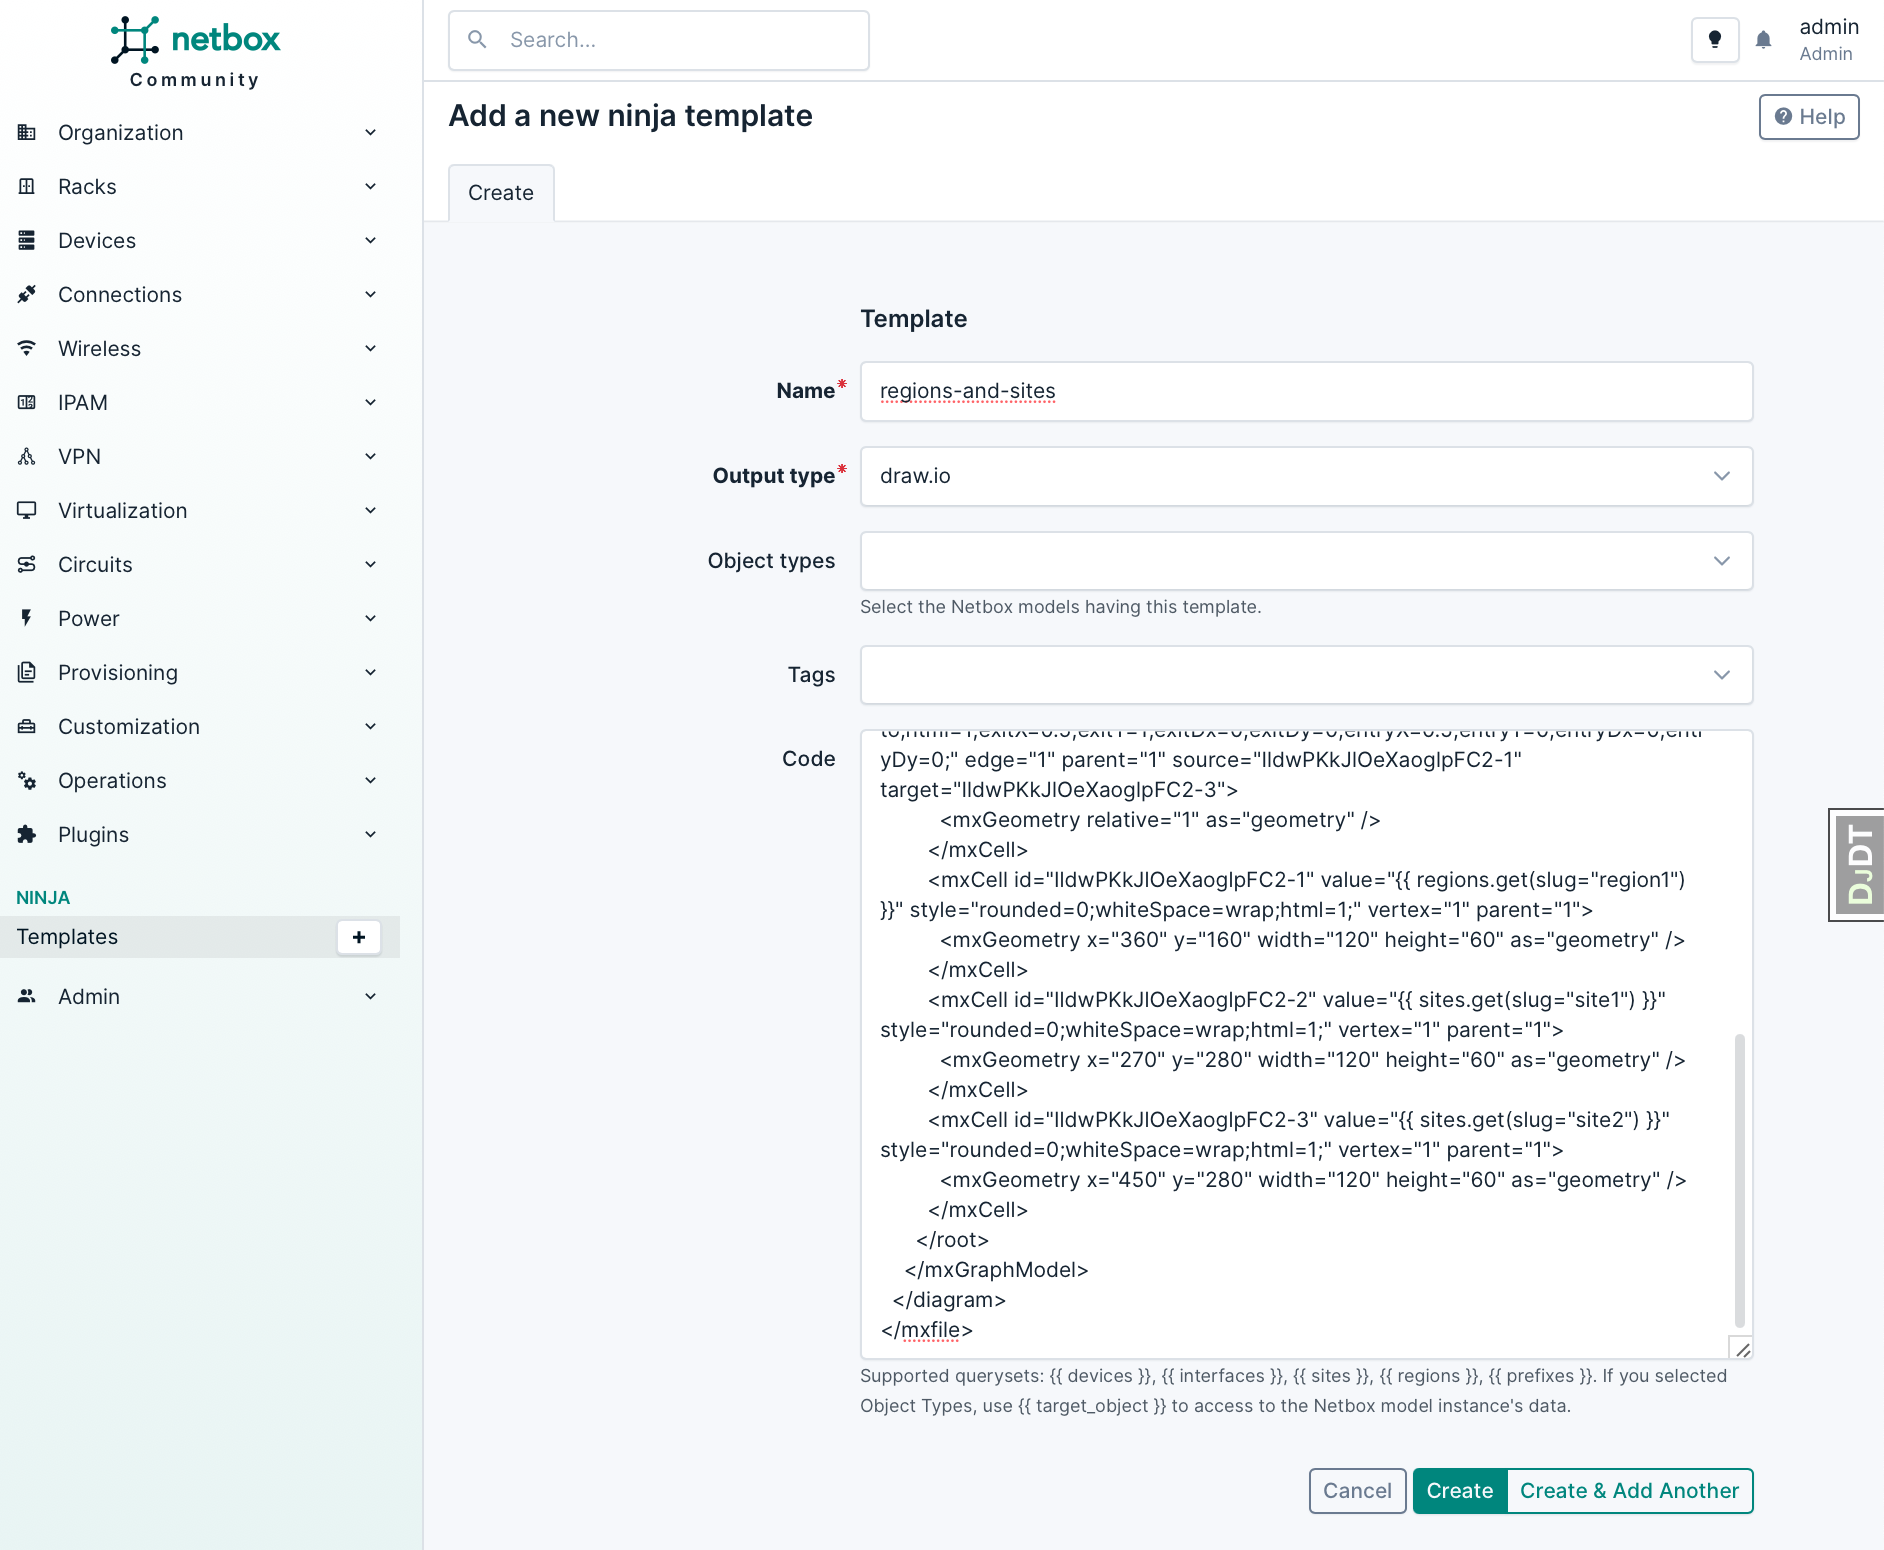
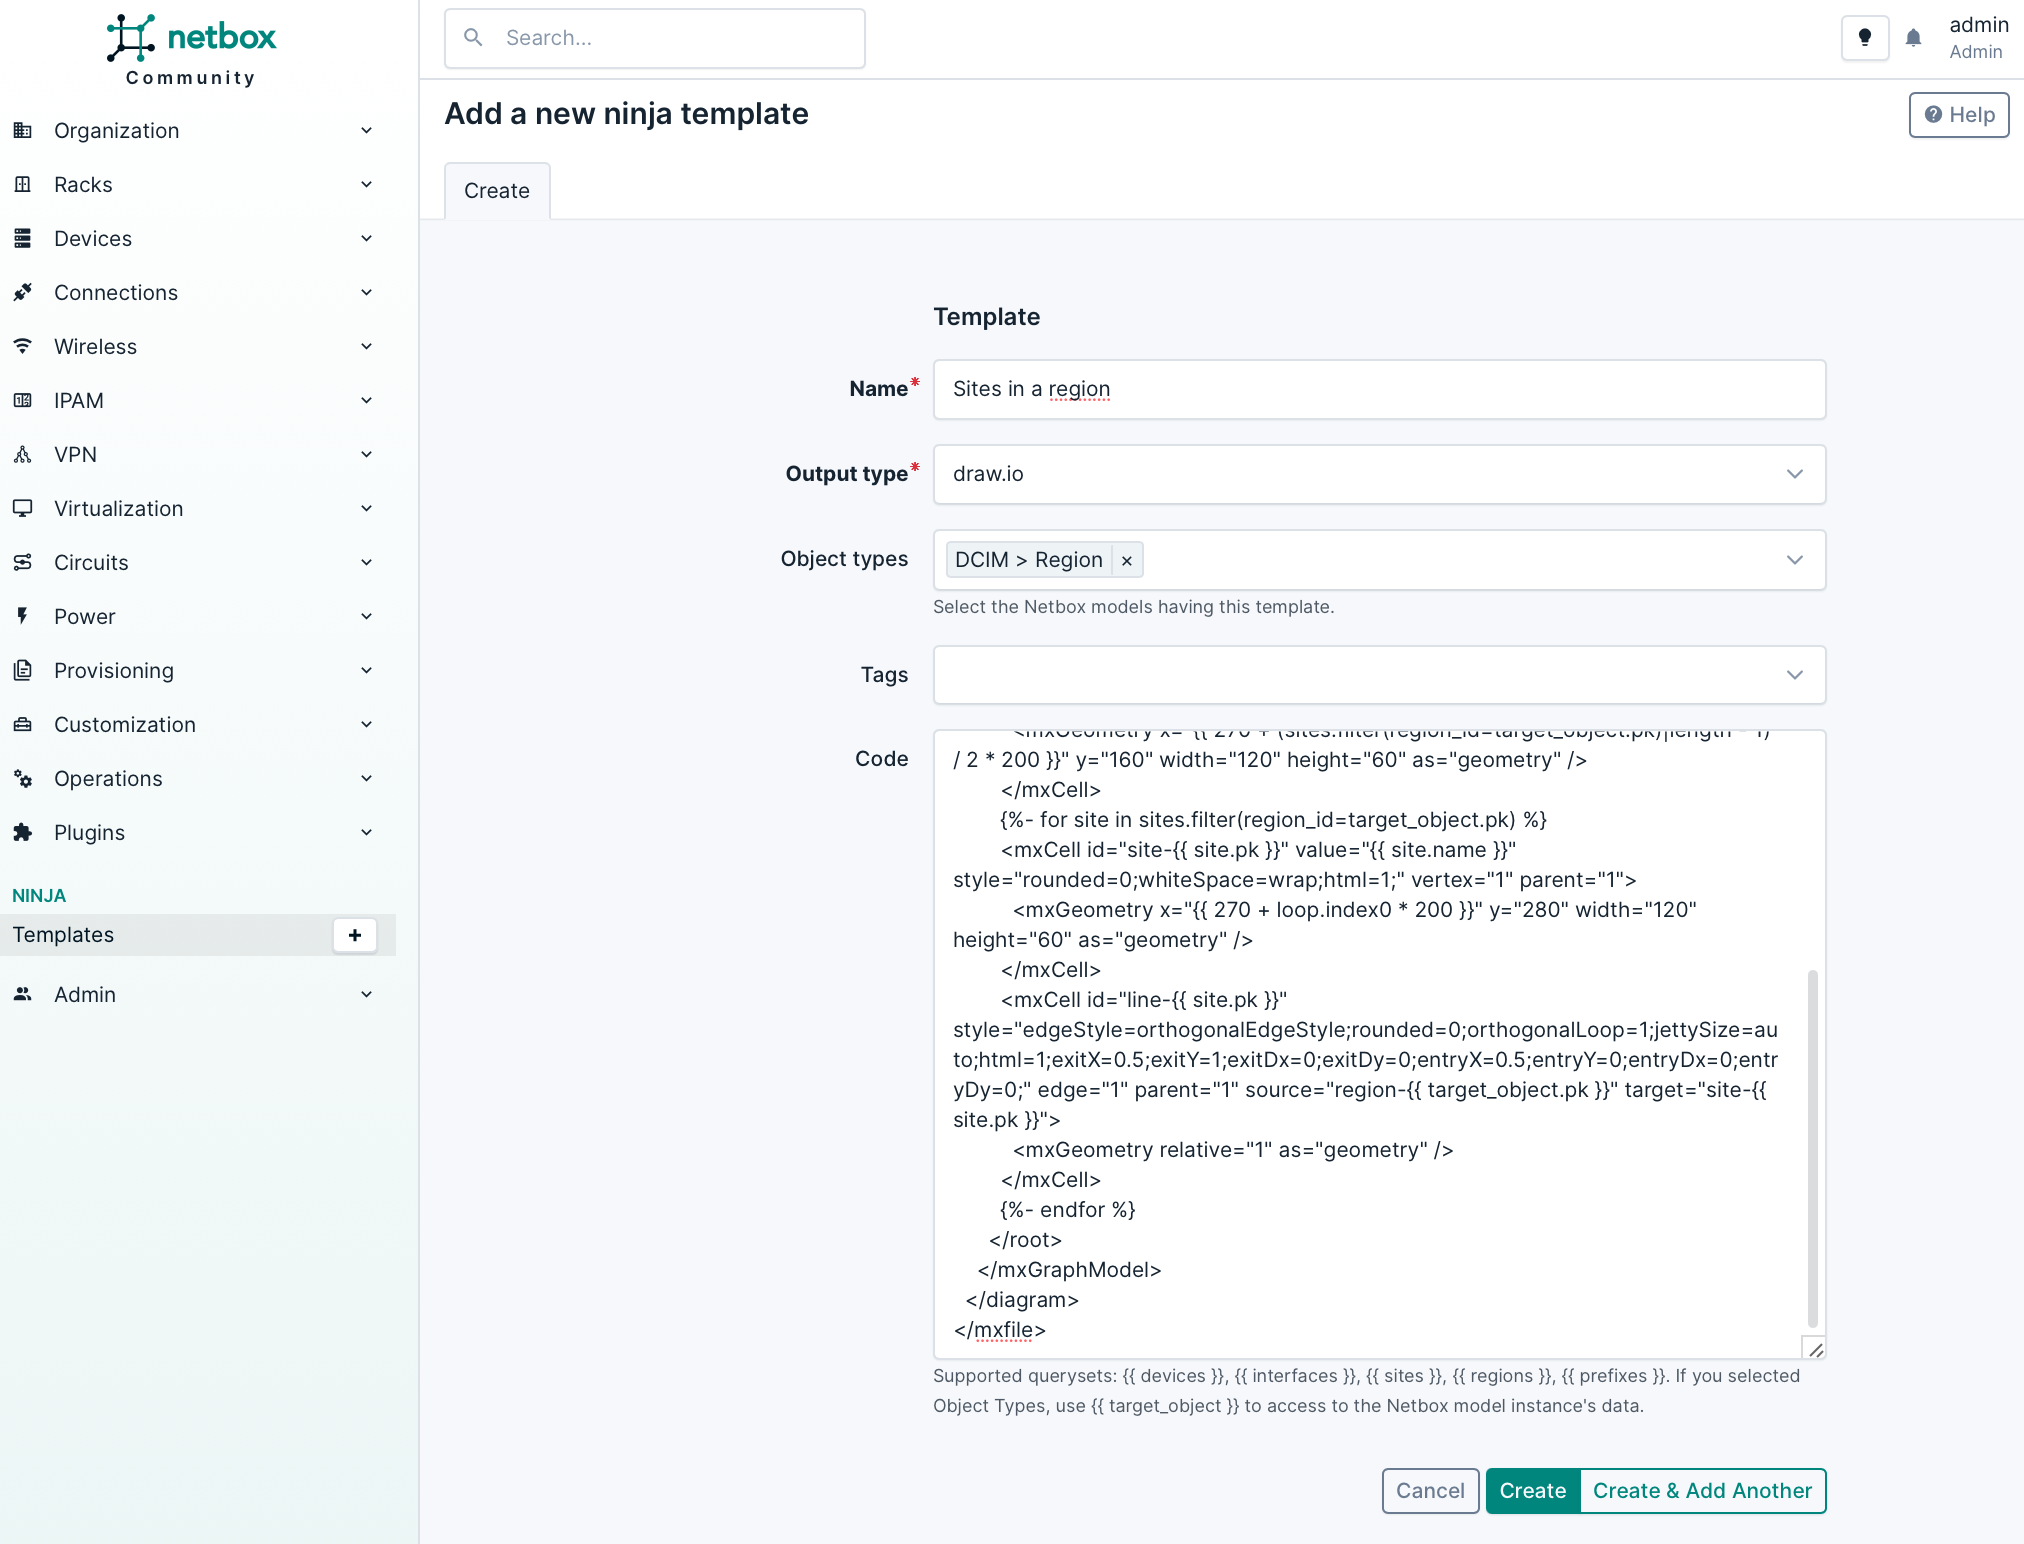
Update the documentation regarding examples and contributing

diff --git a/EXAMPLES.md b/EXAMPLES.md
@@ -2,9 +2,9 @@
 
 This document provides practical examples of using the Netbox Ninja Plugin.
 
-## Basic Example: Region and Sites Visualization
+## Sites in a Region Visualization
 
-Assume we have the following sites in region `Region1` in Netbox:
+Assume we have the following sites in Netbox:
 
 ![Sites](images/sites.png)
 
@@ -16,7 +16,7 @@ Let's draw a simple picture with [draw.io](https://www.drawio.com):
 
 ### Step 2: Add Dynamic Content
 
-After saving the drawing, we'll get a draw.io format XML file. We can make the drawing dynamic by adding Netbox data to it. Here's how to add Jinja tags for regions and sites:
+After saving the drawing, we'll get a draw.io format XML file. We can make the drawing dynamic by adding Netbox data and logic to it by using Jinja notation:
 
 ```xml
 <mxfile host="Electron" agent="Mozilla/5.0 (Macintosh; Intel Mac OS X 10_15_7) AppleWebKit/537.36 (KHTML, like Gecko) draw.io/26.2.2 Chrome/134.0.6998.178 Electron/35.1.2 Safari/537.36" version="26.2.2">
@@ -25,21 +25,17 @@ After saving the drawing, we'll get a draw.io format XML file. We can make the d
       <root>
         <mxCell id="0" />
         <mxCell id="1" parent="0" />
-        <mxCell id="IldwPKkJlOeXaoglpFC2-4" style="edgeStyle=orthogonalEdgeStyle;rounded=0;orthogonalLoop=1;jettySize=auto;html=1;exitX=0.5;exitY=1;exitDx=0;exitDy=0;entryX=0.5;entryY=0;entryDx=0;entryDy=0;" edge="1" parent="1" source="IldwPKkJlOeXaoglpFC2-1" target="IldwPKkJlOeXaoglpFC2-2">
+        <mxCell id="region-{{ target_object.pk }}" value="{{ target_object.name }}" style="rounded=0;whiteSpace=wrap;html=1;" vertex="1" parent="1">
+          <mxGeometry x="{{ 270 + (sites.filter(region_id=target_object.pk)|length - 1) / 2 * 200 }}" y="160" width="120" height="60" as="geometry" />
+        </mxCell>
+        {%- for site in sites.filter(region_id=target_object.pk) %}
+        <mxCell id="site-{{ site.pk }}" value="{{ site.name }}" style="rounded=0;whiteSpace=wrap;html=1;" vertex="1" parent="1">
+          <mxGeometry x="{{ 270 + loop.index0 * 200 }}" y="280" width="120" height="60" as="geometry" />
+        </mxCell>
+        <mxCell id="line-{{ site.pk }}" style="edgeStyle=orthogonalEdgeStyle;rounded=0;orthogonalLoop=1;jettySize=auto;html=1;exitX=0.5;exitY=1;exitDx=0;exitDy=0;entryX=0.5;entryY=0;entryDx=0;entryDy=0;" edge="1" parent="1" source="region-{{ target_object.pk }}" target="site-{{ site.pk }}">
           <mxGeometry relative="1" as="geometry" />
         </mxCell>
-        <mxCell id="IldwPKkJlOeXaoglpFC2-5" style="edgeStyle=orthogonalEdgeStyle;rounded=0;orthogonalLoop=1;jettySize=auto;html=1;exitX=0.5;exitY=1;exitDx=0;exitDy=0;entryX=0.5;entryY=0;entryDx=0;entryDy=0;" edge="1" parent="1" source="IldwPKkJlOeXaoglpFC2-1" target="IldwPKkJlOeXaoglpFC2-3">
-          <mxGeometry relative="1" as="geometry" />
-        </mxCell>
-        <mxCell id="IldwPKkJlOeXaoglpFC2-1" value="{{ regions.get(slug='region1') }}" style="rounded=0;whiteSpace=wrap;html=1;" vertex="1" parent="1">
-          <mxGeometry x="360" y="160" width="120" height="60" as="geometry" />
-        </mxCell>
-        <mxCell id="IldwPKkJlOeXaoglpFC2-2" value="{{ sites.get(slug='site1') }}" style="rounded=0;whiteSpace=wrap;html=1;" vertex="1" parent="1">
-          <mxGeometry x="270" y="280" width="120" height="60" as="geometry" />
-        </mxCell>
-        <mxCell id="IldwPKkJlOeXaoglpFC2-3" value="{{ sites.get(slug='site2') }}" style="rounded=0;whiteSpace=wrap;html=1;" vertex="1" parent="1">
-          <mxGeometry x="450" y="280" width="120" height="60" as="geometry" />
-        </mxCell>
+        {%- endfor %}
       </root>
     </mxGraphModel>
   </diagram>
@@ -63,14 +59,16 @@ The template creation form includes the following fields:
 ![Add a new Ninja Template](images/add-a-new-ninja-template.png)
 
 
-### Step 4: View the Results
+### Step 4: View the Template
 
-After creating the template, you'll see the rendered diagram:
+After creating the template, you'll see the created template:
 
-![Regions and Sites](images/regions-and-sites.png)
+![Regions and Sites](images/sites-in-a-region.png)
 
 ### Step 5: Object-Specific Templates
 
-You can make the template object-specific by adding `DCIM > Region` to `Object types` and using the `{{ target_object.name }}` tag. When viewing a specific region in Netbox, you'll see a new tab:
+You can view object-specific template by opening any Region object in Netbox. In this case, Helsinki:
 
-![Region1](images/region1.png)
+![Region1](images/helsinki.png)
+
+The drawing is created dynamically for every region. You can add or delete sites from the region and the drawing updates automatically each time the page is opened.

diff --git a/CONTRIBUTING.md b/CONTRIBUTING.md
@@ -18,6 +18,14 @@ Thank you for your interest in contributing to the Ninja Netbox Plugin! This doc
 
 ### Initial Setup
 
+The quickest way to get started is using GitHub Codespaces:
+
+1. Click the "Code" button on the repository and select "Create codespace on main"
+2. Once your Codespace is ready, run `make demo_environment` in the terminal
+3. Access the development environment at http://localhost:8000 with credentials `admin/admin`
+
+Alternatively, you can set up locally:
+
 1. Clone the repository:
 ```bash
 git clone https://github.com/rautanen-io/netbox-ninja-plugin.git
